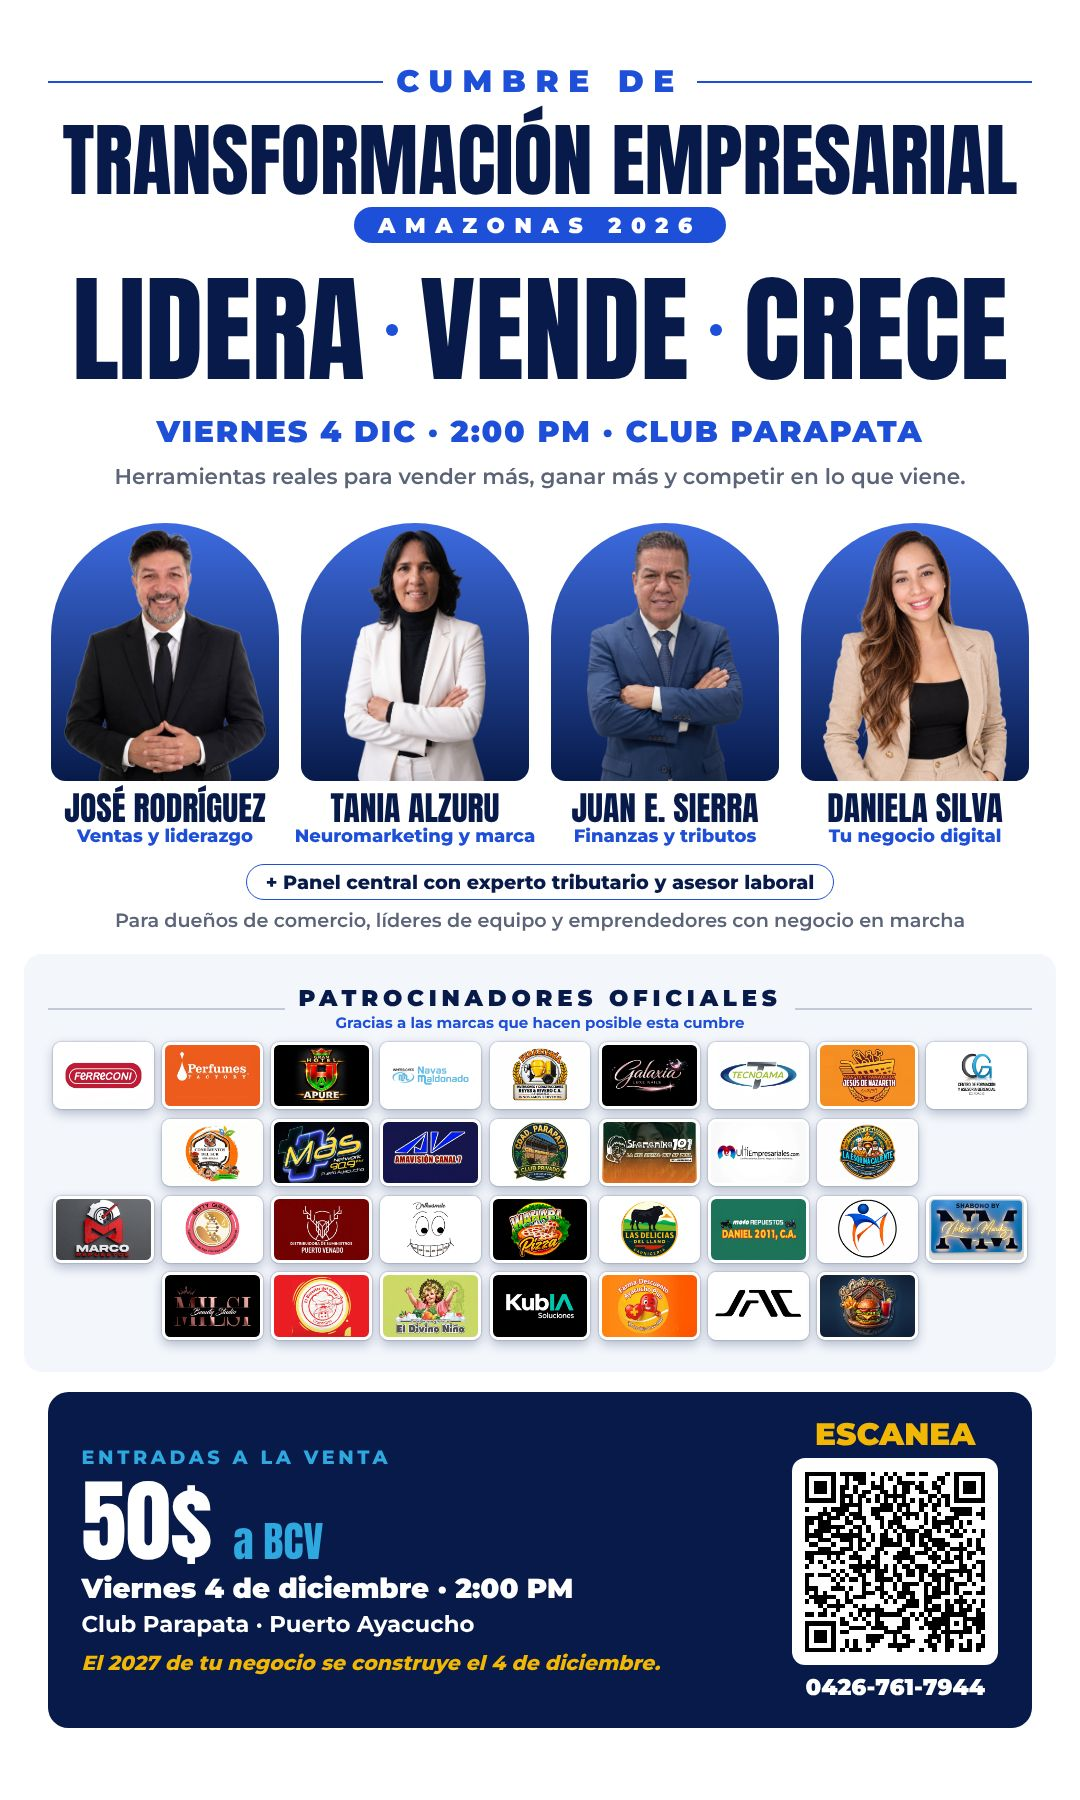
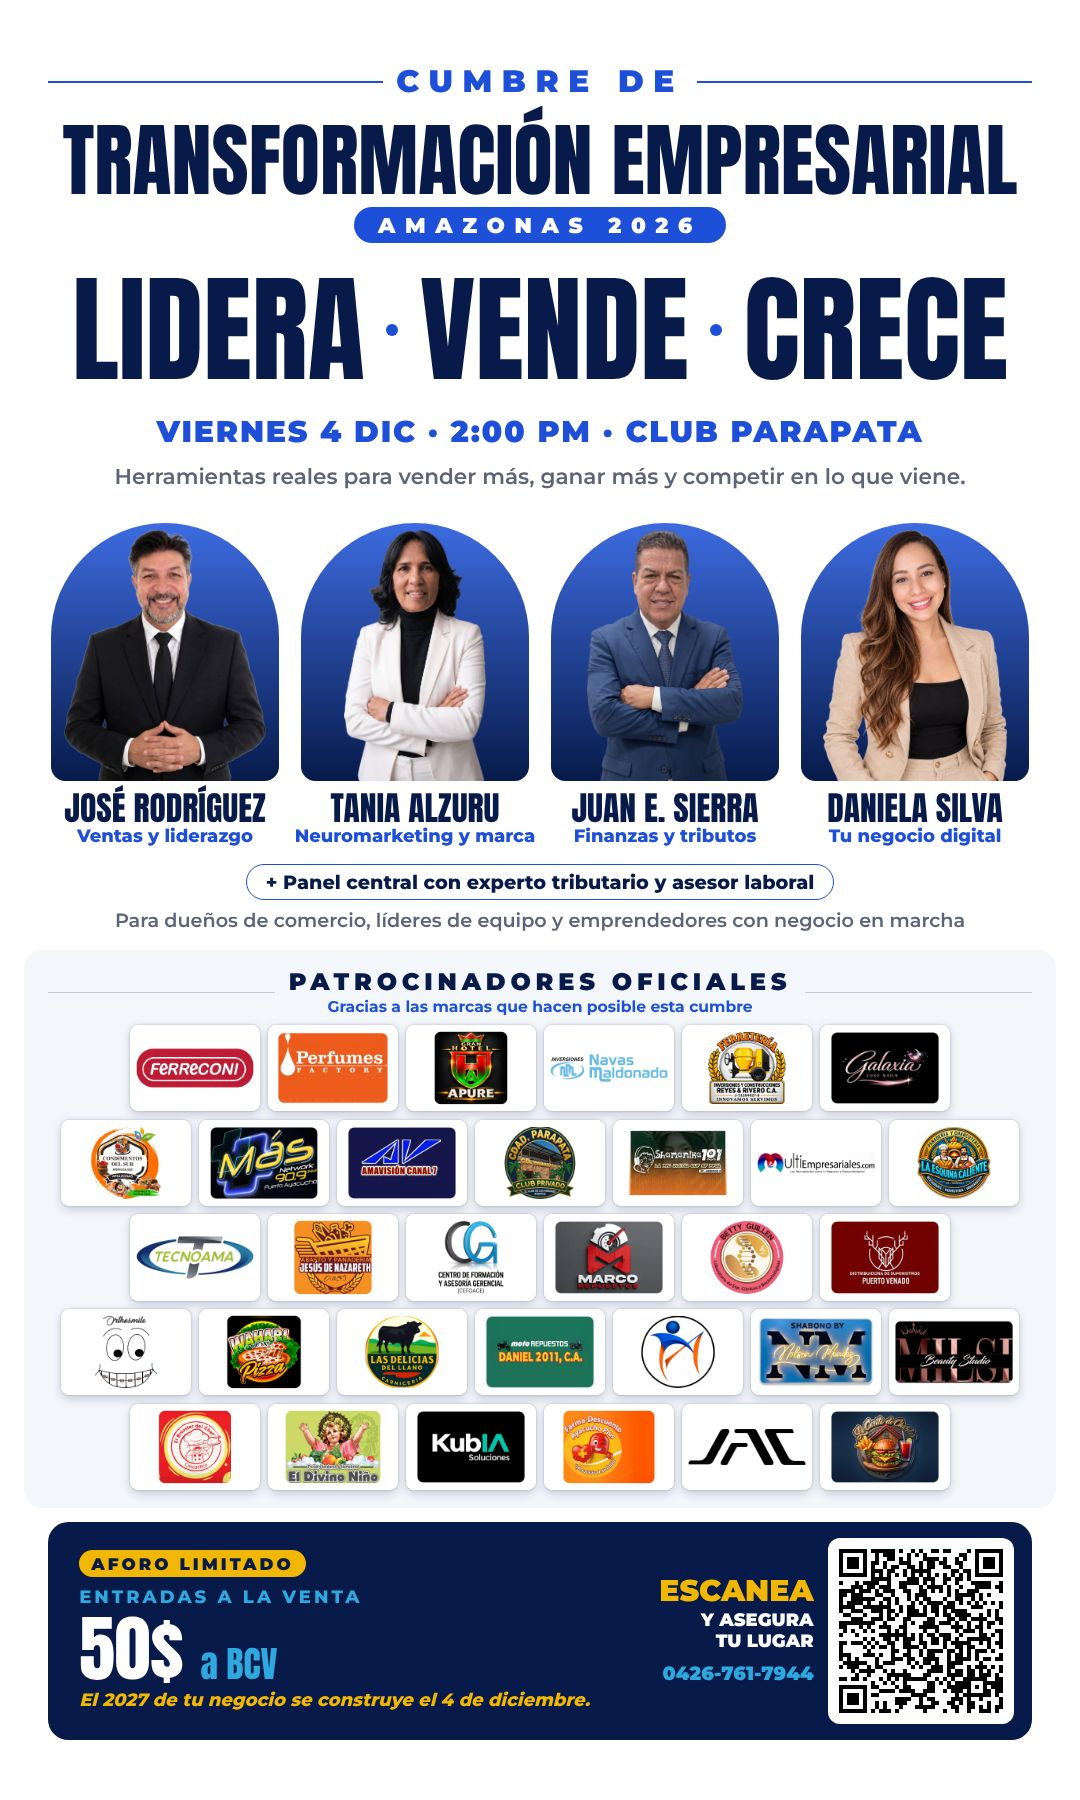
feat(pendón): maqueta 90x150 v2 — tarjetas blancas de tamaño óptico, ladrillo 6-7-6-7-6
Logos sin recortar fondos: la marca sobre blanco se recorta a su caja y la de
placa de color la conserva entera; todos igualados por área visual. Franja de
compra compacta sin repetir fecha ni lugar; 'Aforo limitado' dentro de ella.

Claude-Session: https://claude.ai/code/session_01QsWqbeeNspL7vUpqZXuytH

Changed region(s): [[0.0306, 0.5289, 0.9778, 0.9644]]

diff --git a/producciones/pendon-cumbre/src/PendonOOH.tsx b/producciones/pendon-cumbre/src/PendonOOH.tsx
@@ -22,17 +22,20 @@ const PONENTES = [
 	{nombre: 'JUAN E. SIERRA', tema: 'Finanzas y tributos', foto: 'img/juan-recorte.png'},
 	{nombre: 'DANIELA SILVA', tema: 'Tu negocio digital', foto: 'img/daniela-recorte.png'},
 ];
-// 32 patrocinadores en ladrillo 9-7-9-7. Fila 2 (la más mirada): Club Parapata al centro con los medios.
+// 32 patrocinadores en ladrillo 6-7-6-7-6 (alterna perfecto). Fila 2: Club Parapata al centro con los medios.
+// Cada marca va en tarjeta BLANCA con tamaño óptico parejo (public/patroTile, generado sin recortar fondos:
+// la marca sobre blanco queda directa; la que tiene placa de color la conserva entera con esquinas redondeadas).
 const FILAS = [
-	['ferreconi', 'perfumes', 'gran-hotel-apure', 'navas', 'reyes-rivero', 'galaxia', 'tecnoama', 'jesus-nazareth', 'cefoage'],
+	['ferreconi', 'perfumes', 'gran-hotel-apure', 'navas', 'reyes-rivero', 'galaxia'],
 	['condimentos', 'mas-network', 'amavision', 'parapata', 'shamanika', 'multiempresariales', 'esquina-caliente'],
-	['marco', 'betty-guillen', 'puerto-venado', 'orthosmile', 'wahari', 'delicias', 'moto-daniel', 'tania', 'shabono'],
-	['milsi', 'broaster', 'divino-nino', 'kubia', 'farma', 'jac', 'casita'],
+	['tecnoama', 'jesus-nazareth', 'cefoage', 'marco', 'betty-guillen', 'puerto-venado'],
+	['orthosmile', 'wahari', 'delicias', 'moto-daniel', 'tania', 'shabono', 'milsi'],
+	['broaster', 'divino-nino', 'kubia', 'farma', 'jac', 'casita'],
 ];
-const TW = 168; // 8,4 cm por tarjeta: la fila de 9 queda dentro de la zona segura de 4 cm
+const TW = 216; // 10,8 cm por tarjeta
 const Tarjeta: React.FC<{l: string}> = ({l}) => (
-	<div style={{width: TW, height: TW * 2 / 3, borderRadius: 14, overflow: 'hidden', border: '5px solid #FFFFFF', boxSizing: 'border-box', boxShadow: `0 8px 18px ${C.marino}40, 0 0 0 2px ${C.marino}1F`}}>
-		<Img src={staticFile(`patroHD/${l}.webp`)} style={{width: '100%', height: '100%', display: 'block', objectFit: 'cover'}} />
+	<div style={{width: TW, height: TW * 2 / 3, borderRadius: 14, overflow: 'hidden', background: '#FFFFFF', boxShadow: `0 6px 16px ${C.marino}2E, 0 0 0 2px ${C.marino}14`}}>
+		<Img src={staticFile(`patroTile/${l}.png`)} style={{width: '100%', height: '100%', display: 'block'}} />
 	</div>
 );
 const Linea: React.FC<{children: React.ReactNode; color?: string}> = ({children, color = `${C.marino}33`}) => (
@@ -80,31 +83,33 @@ export const PendonOOH: React.FC = () => {
 			</div>
 			{col(1440, <div style={{fontFamily: F.texto, fontWeight: 800, fontSize: 32, color: C.marino, border: `3px solid ${C.azul}`, padding: '8px 32px', borderRadius: 40}}>+ Panel central con experto tributario y asesor laboral</div>)}
 			{col(1514, <div style={{fontFamily: F.texto, fontWeight: 600, fontSize: 32, color: C.gris}}>Para dueños de comercio, líderes de equipo y emprendedores con negocio en marcha</div>)}
-			{/* 5. QUIÉN RESPALDA */}
-			<div style={{position: 'absolute', left: 40, right: 40, top: 1590, height: 696, borderRadius: 30, background: C.fondo, display: 'flex', flexDirection: 'column', alignItems: 'center', justifyContent: 'center', gap: 16}}>
+			{/* 5. QUIÉN RESPALDA: el bloque más grande del pendón */}
+			<div style={{position: 'absolute', left: 40, right: 40, top: 1584, height: 930, borderRadius: 30, background: C.fondo, display: 'flex', flexDirection: 'column', alignItems: 'center', justifyContent: 'center', gap: 14}}>
 				<Linea>
 					<div style={{textAlign: 'center'}}>
-						<div style={{fontFamily: F.texto, fontWeight: 900, fontSize: 38, letterSpacing: 8, color: C.marino, lineHeight: 1.1}}>PATROCINADORES OFICIALES</div>
-						<div style={{fontFamily: F.texto, fontWeight: 700, fontSize: 25, color: C.azul, marginTop: 4}}>Gracias a las marcas que hacen posible esta cumbre</div>
+						<div style={{fontFamily: F.texto, fontWeight: 900, fontSize: 40, letterSpacing: 8, color: C.marino, lineHeight: 1.1}}>PATROCINADORES OFICIALES</div>
+						<div style={{fontFamily: F.texto, fontWeight: 700, fontSize: 26, color: C.azul, marginTop: 4}}>Gracias a las marcas que hacen posible esta cumbre</div>
 					</div>
 				</Linea>
 				{FILAS.map((fila, i) => <div key={i} style={{display: 'flex', gap: 14}}>{fila.map((l) => <Tarjeta key={l} l={l} />)}</div>)}
 			</div>
-			{/* 6. CÓMO COMPRAR: un solo bloque, QR de 15 cm */}
-			<div style={{position: 'absolute', left: 80, right: 80, top: 2320, height: 560, borderRadius: 34, background: C.marino, display: 'flex', alignItems: 'center', justifyContent: 'space-between', padding: '0 56px', boxSizing: 'border-box'}}>
-				<div style={{display: 'flex', flexDirection: 'column', gap: 12, fontFamily: F.texto, color: '#FFFFFF'}}>
-					<div style={{fontWeight: 800, fontSize: 32, letterSpacing: 6, color: C.celeste}}>ENTRADAS A LA VENTA</div>
-					<div style={{fontFamily: F.titulo, fontSize: 150, lineHeight: 1, color: '#FFFFFF'}}>50$ <span style={{fontSize: 70, color: C.celeste}}>a BCV</span></div>
-					<div style={{fontWeight: 900, fontSize: 46, lineHeight: 1.1}}>Viernes 4 de diciembre · 2:00 PM</div>
-					<div style={{fontWeight: 700, fontSize: 38}}>Club Parapata · Puerto Ayacucho</div>
-					<div style={{marginTop: 8, fontWeight: 800, fontStyle: 'italic', fontSize: 34, color: C.oro}}>El 2027 de tu negocio se construye el 4 de diciembre.</div>
+			{/* 6. CÓMO COMPRAR: franja compacta, sin repetir fecha ni lugar (ya están arriba) */}
+			<div style={{position: 'absolute', left: 80, right: 80, top: 2536, height: 364, borderRadius: 34, background: C.marino, display: 'flex', alignItems: 'center', justifyContent: 'space-between', padding: '0 30px 0 52px', boxSizing: 'border-box'}}>
+				<div style={{display: 'flex', flexDirection: 'column', alignItems: 'flex-start', gap: 8, fontFamily: F.texto, color: '#FFFFFF'}}>
+					<div style={{fontWeight: 900, fontSize: 28, letterSpacing: 5, color: C.marino, background: C.oro, padding: '6px 20px', borderRadius: 30}}>AFORO LIMITADO</div>
+					<div style={{fontWeight: 800, fontSize: 30, letterSpacing: 5, color: C.celeste, marginTop: 6}}>ENTRADAS A LA VENTA</div>
+					<div style={{fontFamily: F.titulo, fontSize: 120, lineHeight: 1}}>50$ <span style={{fontSize: 60, color: C.celeste}}>a BCV</span></div>
+					<div style={{fontWeight: 800, fontStyle: 'italic', fontSize: 30, color: C.oro}}>El 2027 de tu negocio se construye el 4 de diciembre.</div>
 				</div>
-				<div style={{display: 'flex', flexDirection: 'column', alignItems: 'center', gap: 14}}>
-					<div style={{fontFamily: F.texto, fontWeight: 900, fontSize: 52, color: C.oro, lineHeight: 1}}>ESCANEA</div>
-					<div style={{background: '#FFFFFF', padding: 22, borderRadius: 22, width: 344, height: 344, boxSizing: 'border-box'}}>
+				<div style={{display: 'flex', alignItems: 'center', gap: 24}}>
+					<div style={{textAlign: 'right', fontFamily: F.texto}}>
+						<div style={{fontWeight: 900, fontSize: 50, color: C.oro, lineHeight: 1}}>ESCANEA</div>
+						<div style={{fontWeight: 900, fontSize: 30, color: '#FFFFFF', lineHeight: 1.2, marginTop: 6}}>Y ASEGURA<br />TU LUGAR</div>
+						<div style={{fontWeight: 900, fontSize: 32, color: C.celeste, marginTop: 14}}>0426-761-7944</div>
+					</div>
+					<div style={{background: '#FFFFFF', padding: 18, borderRadius: 20, width: 310, height: 310, boxSizing: 'border-box'}}>
 						<Img src={staticFile('img/qr.svg')} style={{width: '100%', height: '100%', display: 'block'}} />
 					</div>
-					<div style={{fontFamily: F.texto, fontWeight: 900, fontSize: 38, color: '#FFFFFF'}}>0426-761-7944</div>
 				</div>
 			</div>
 		</AbsoluteFill>

diff --git a/producciones/pendon-cumbre/herramientas/tarjetas_logos.py b/producciones/pendon-cumbre/herramientas/tarjetas_logos.py
@@ -1,0 +1,39 @@
+# Tarjetas uniformes SIN recortar fondos: cada marca se recorta a su caja real (sin el relleno que le pusimos),
+# se centra en una tarjeta BLANCA con tamaño óptico parejo. Si su fondo es de color (placa de identidad), la placa
+# se conserva entera con esquinas redondeadas; si es blanco, la marca queda directo sobre el blanco de la tarjeta.
+import glob, os, sys
+from PIL import Image, ImageChops, ImageDraw, ImageFilter
+SRC, DST = sys.argv[1], sys.argv[2]
+W, H = 1320, 880
+def caja(im, bg, tol=30):
+    d = ImageChops.difference(im, Image.new('RGB', im.size, bg)).convert('L').point(lambda v: 255 if v > tol else 0)
+    d = d.filter(ImageFilter.MaxFilter(5))
+    return d.getbbox()
+for p in sorted(glob.glob(f'{SRC}/*.webp')):
+    n = os.path.basename(p)[:-5]
+    im = Image.open(p).convert('RGB')
+    bg = im.getpixel((6, 6))
+    blanco = min(bg) > 225
+    bb = caja(im, bg)
+    if blanco:
+        lg = im.crop(bb)  # marca sobre blanco: se recorta a la marca
+        frac = 0.56       # área objetivo dentro de la tarjeta
+    else:
+        # placa de color: se conserva la imagen original completa (sin el relleno de carta que le añadimos)
+        bb2 = caja(im, bg, tol=8) or (0, 0, im.width, im.height)
+        lg = im.crop(bb2) if (bb2[2]-bb2[0]) * (bb2[3]-bb2[1]) > 0.5 * im.width * im.height else im
+        frac = 0.68
+    r = lg.width / lg.height
+    A = frac * W * H
+    w, h = (A * r) ** 0.5, (A / r) ** 0.5
+    k = min(1, 0.90 * W / w, 0.84 * H / h)
+    w, h = int(w * k), int(h * k)
+    lg = lg.resize((w, h), Image.LANCZOS)
+    t = Image.new('RGB', (W, H), (255, 255, 255))
+    if not blanco:
+        m = Image.new('L', (w, h), 0); ImageDraw.Draw(m).rounded_rectangle((0, 0, w - 1, h - 1), radius=int(min(w, h) * 0.08), fill=255)
+        t.paste(lg, ((W - w) // 2, (H - h) // 2), m)
+    else:
+        t.paste(lg, ((W - w) // 2, (H - h) // 2))
+    t.save(f'{DST}/{n}.png', optimize=True)
+    print(n, 'blanco' if blanco else 'placa', w, h)
